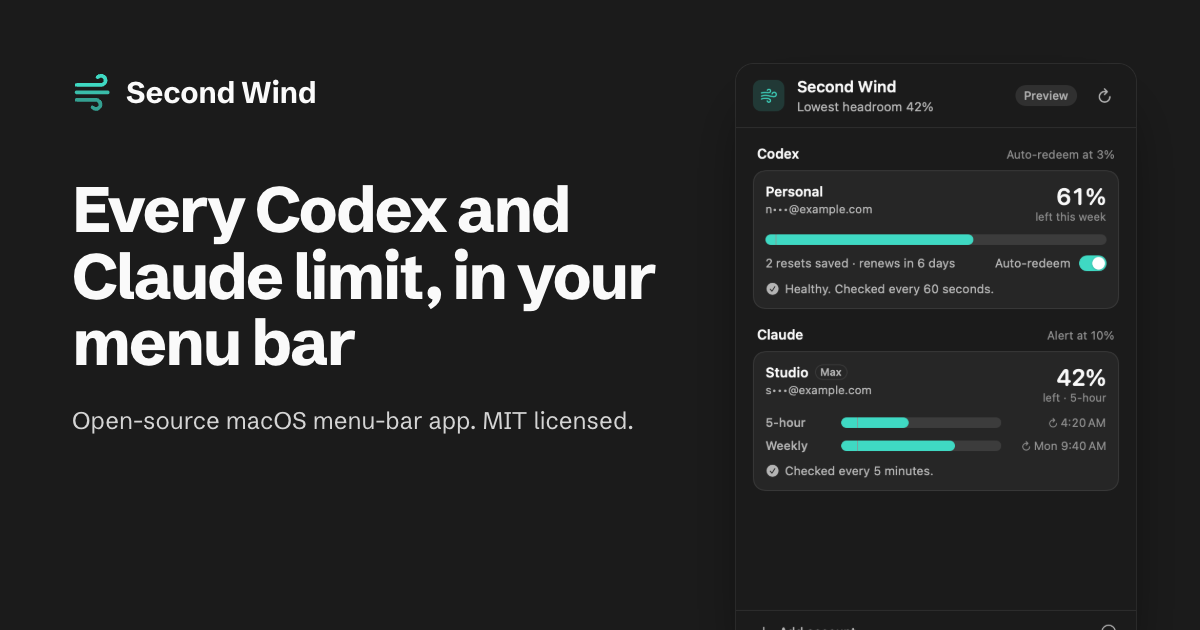
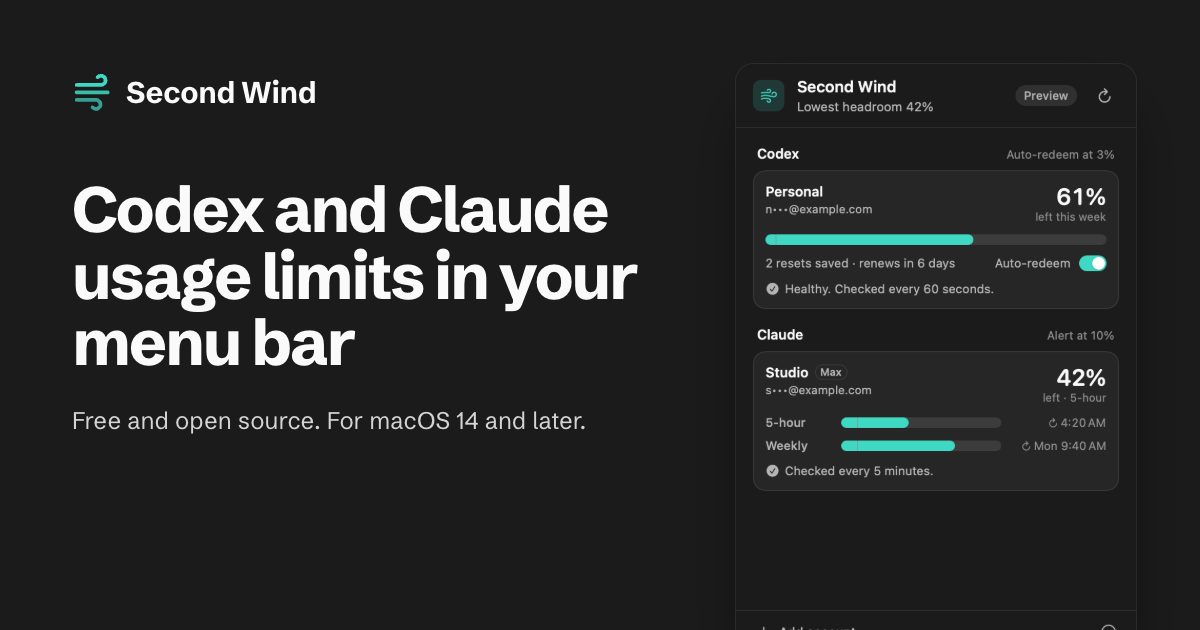
Match the sharing image to the app and fit the fallback install text

Changed region(s): [[0.0617, 0.2714, 0.555, 0.5127], [0.0617, 0.6333, 0.5242, 0.6937]]

diff --git a/site/index.html b/site/index.html
@@ -18,7 +18,7 @@
     <meta property="og:image" content="https://secondwind.nickymolina.com/og.png" />
     <meta property="og:image:width" content="1200" />
     <meta property="og:image:height" content="630" />
-    <meta property="og:image:alt" content="Second Wind: every Codex and Claude limit in your menu bar, next to the app's popover showing a Codex and a Claude account." />
+    <meta property="og:image:alt" content="Second Wind. Codex and Claude usage limits in your Mac menu bar, beside the app's popover showing a Codex account and a Claude account." />
     <meta name="twitter:card" content="summary_large_image" />
     <meta name="twitter:title" content="Second Wind" />
     <meta name="twitter:description" content="Codex and Claude usage limits for every account, in your Mac menu bar. Free and open source." />

diff --git a/site/src/styles.css b/site/src/styles.css
@@ -638,6 +638,18 @@ p.astryx-text {
   overflow-wrap: anywhere;
 }
 
+.noscript code {
+  white-space: normal;
+  overflow-wrap: anywhere;
+}
+
+.noscript pre code {
+  padding: 0;
+  border: 0;
+  background: none;
+  white-space: inherit;
+}
+
 .noscript a {
   color: inherit;
   text-decoration: underline;
